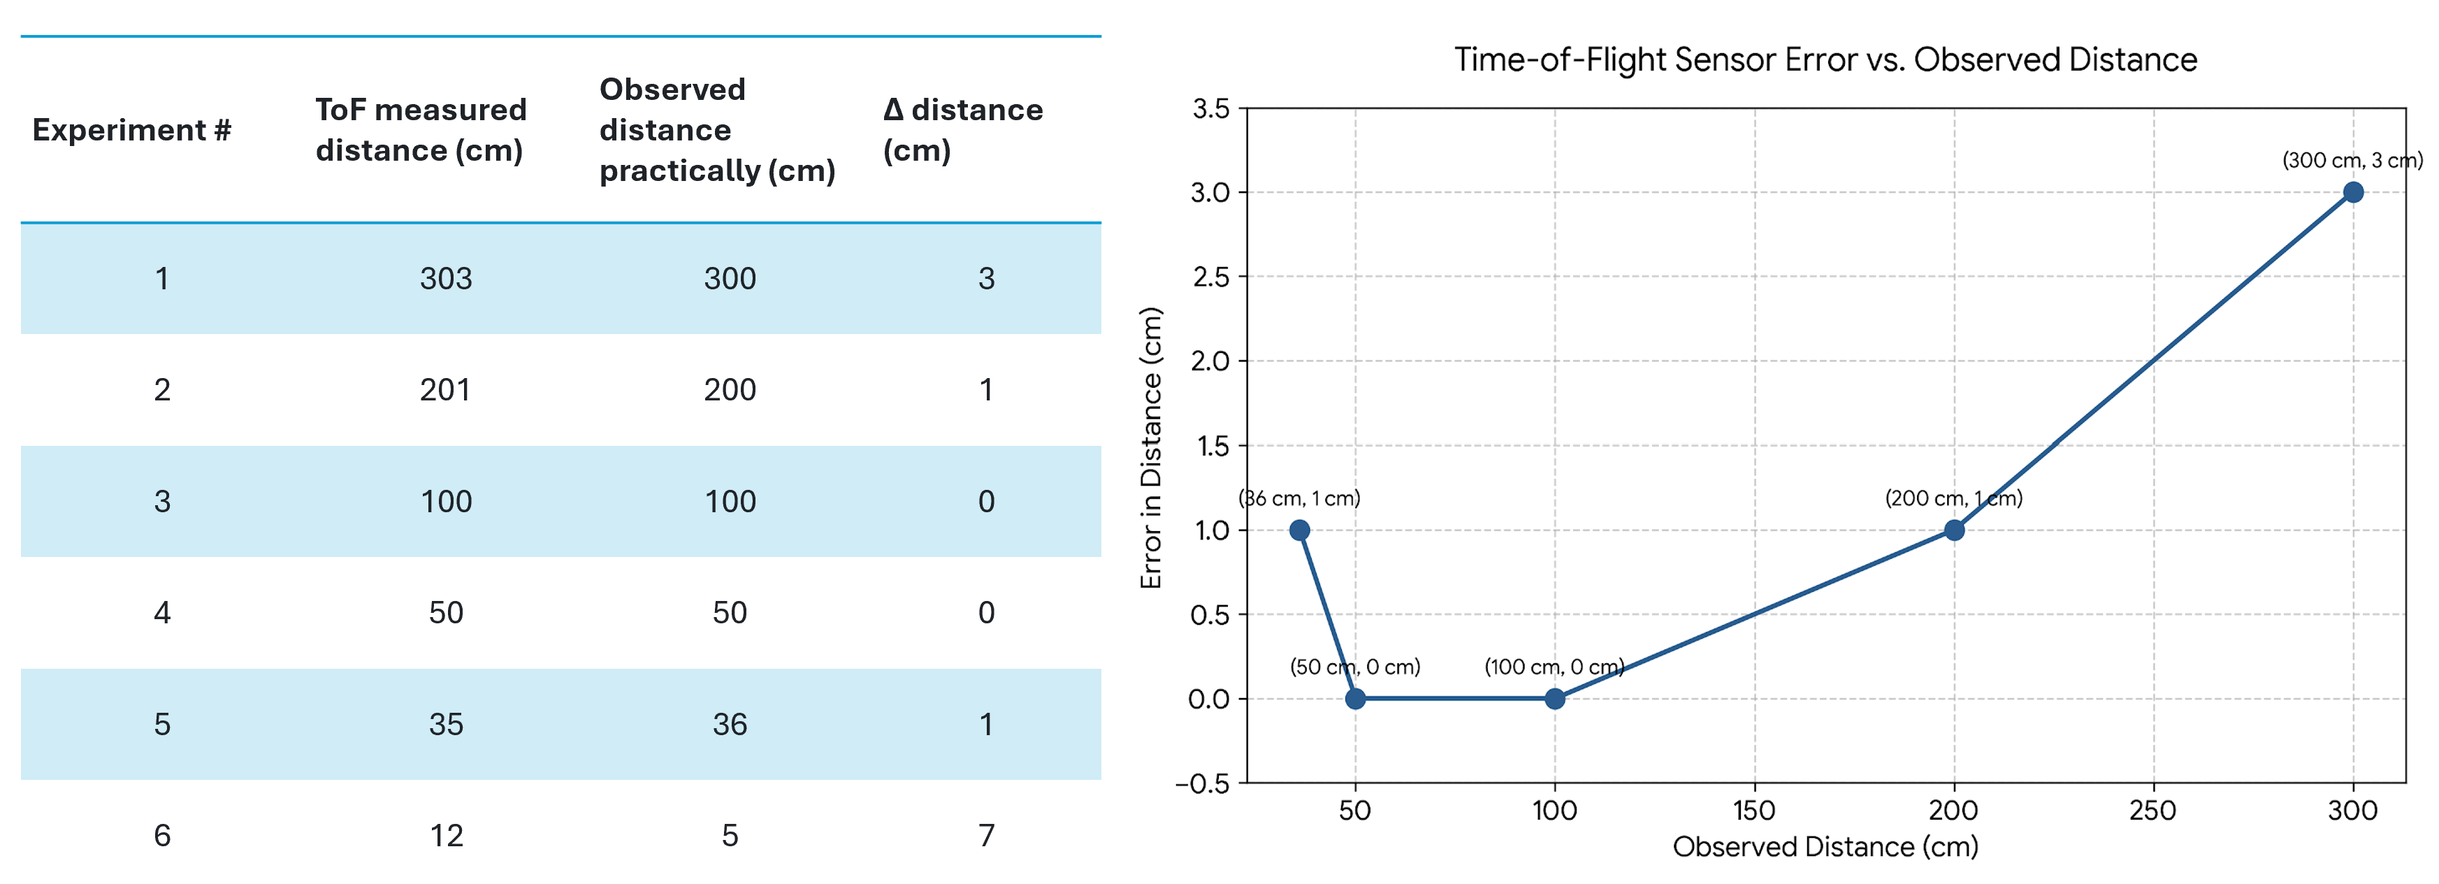
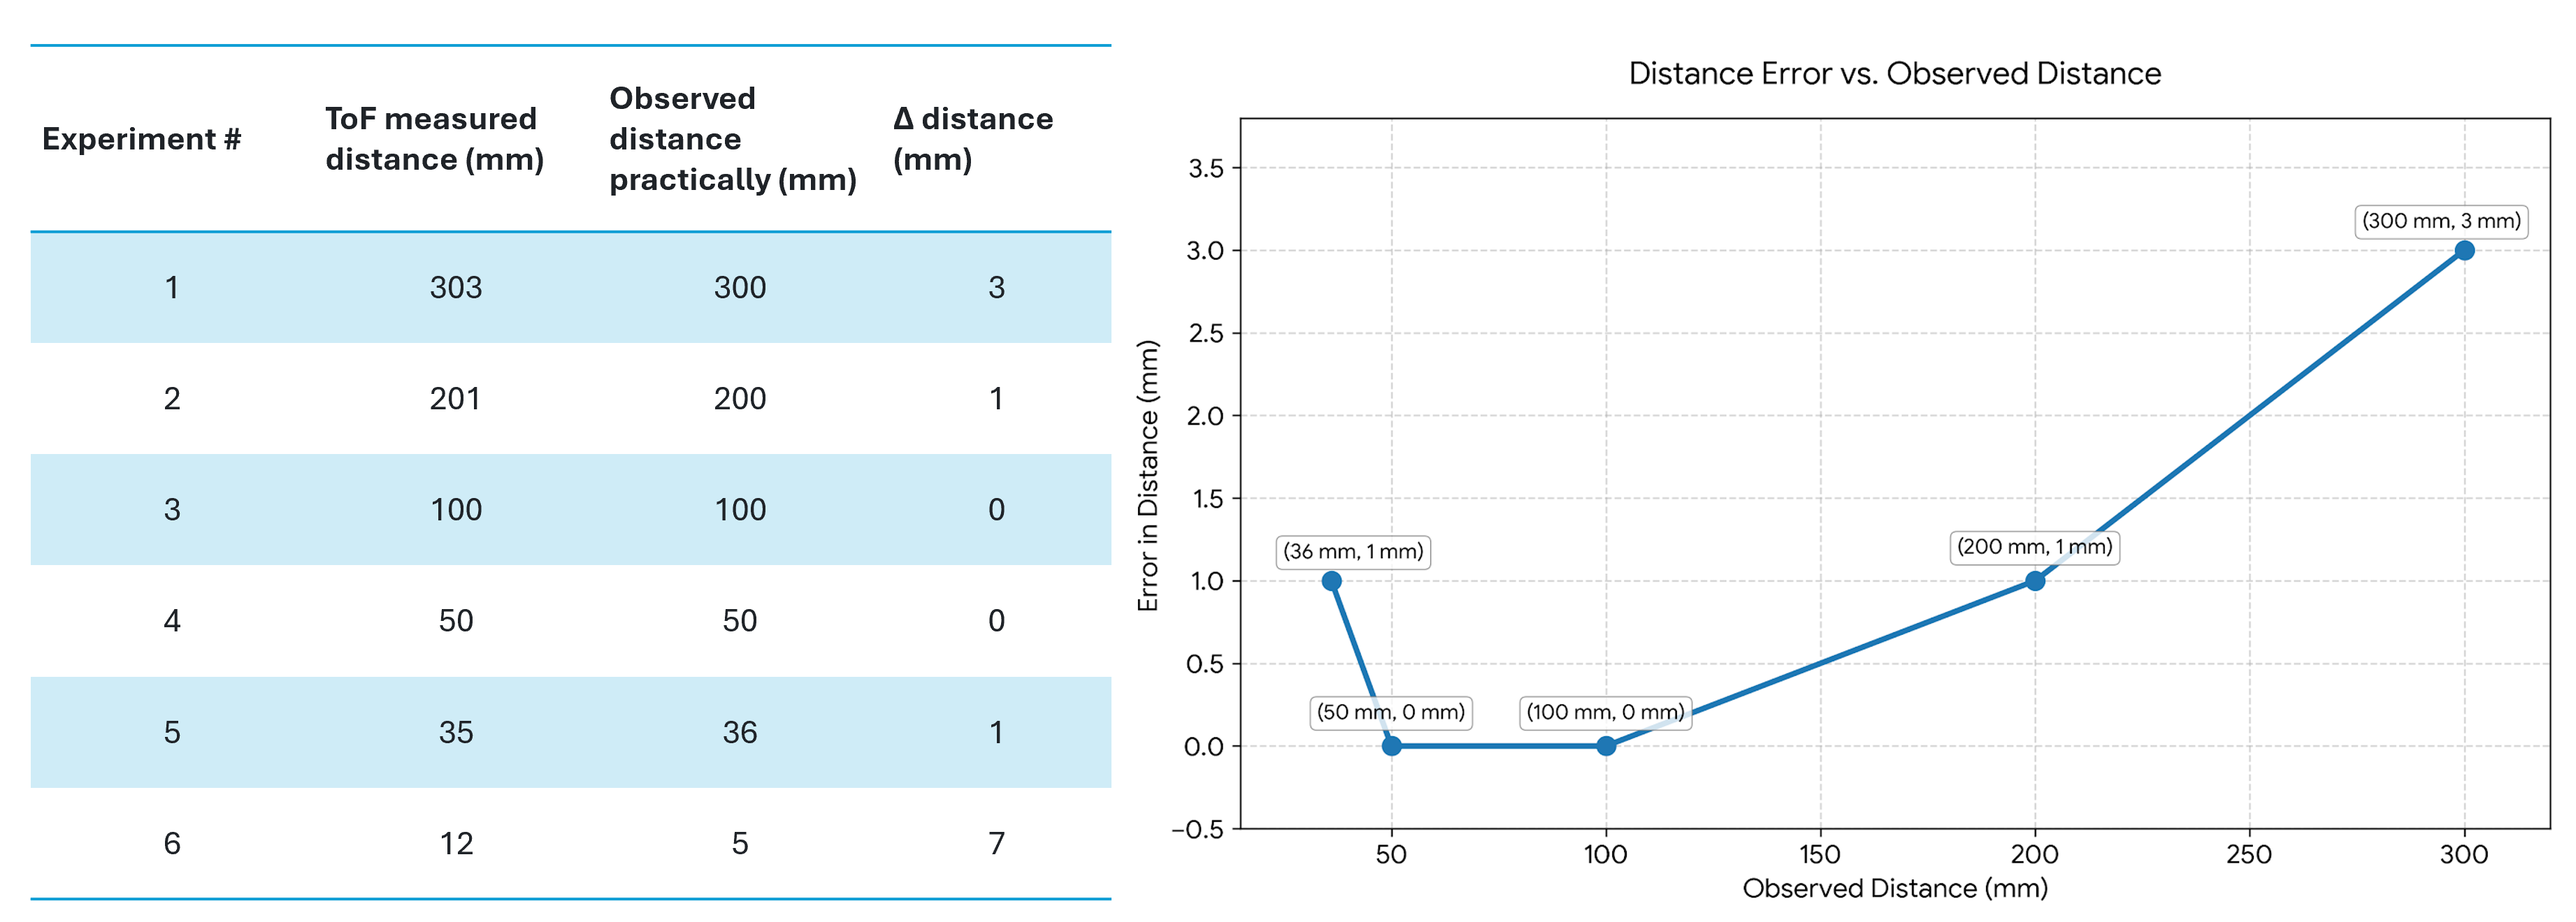
Fixing minor issues from team doc reviews

diff --git a/video/video.md b/video/video.md
@@ -1,6 +1,10 @@
-1) Hardware Intro - https://www.youtube.com/watch?v=FEl8HhxixXw&list=PLtGeYglcz-LV6koN9wQThOjIqPL0-ONzv&index=1
-2) Open Challenge - https://www.youtube.com/watch?v=RPlUBpgehC8&list=PLtGeYglcz-LV6koN9wQThOjIqPL0-ONzv&index=2
-3) Obstacle Challenge - https://www.youtube.com/watch?v=Hh7IV-Hk6og&list=PLtGeYglcz-LV6koN9wQThOjIqPL0-ONzv&index=3
+## Summary and Performance Video
+Here is a quick 5 min video that summarizes the essence of our robot and documentation. We recommend you watch it to get a quick understanding of our project!
 
 
-A single playlist of all of the above videos - https://www.youtube.com/playlist?list=PLtGeYglcz-LV6koN9wQThOjIqPL0-ONzv
+| [<img src="../docs/diagrams/SummaryVideoThumbnail.png" alt="Robot Video" width="500"/>](https://m.youtube.com/playlist?list=PLMdippUF4xxo) | <img src="../docs/diagrams/YoutubeQR.png" alt="YoutubeQR" width="100" /> <br />Scan QR code to open in YouTube |
+| ------------------------------------------------------------ | ------------------------------------------------------------ |
+
+* [Summary Video](https://youtu.be/YS-oyNQQUGs) 
+* [Open Challenge Performance Video](https://youtu.be/OW5V_LRIKNU)
+* [Obstacle Challenge Performance Video](https://youtu.be/RbtGV2t9GcI)

diff --git a/video/README.md b/video/README.md
@@ -1,6 +1,10 @@
-Video
-====
+## Summary and Performance Video
+Here is a quick 5 min video that summarizes the essence of our robot and documentation. We recommend you watch it to get a quick understanding of our project!
 
-This directory contains the video.md file with a URL to the YouTube video showing the vehicle driving autonomously.
 
-[!["Video To Our Robot"](../other/readmephotos/Thumbnail.gif)](https://www.youtube.com/watch?v=yn76rDG4Hm4)
+| [<img src="../docs/diagrams/SummaryVideoThumbnail.png" alt="Robot Video" width="500"/>](https://m.youtube.com/playlist?list=PLMdippUF4xxo) | <img src="../docs/diagrams/YoutubeQR.png" alt="YoutubeQR" width="100" /> <br />Scan QR code to open in YouTube |
+| ------------------------------------------------------------ | ------------------------------------------------------------ |
+
+* [Summary Video](https://youtu.be/YS-oyNQQUGs) 
+* [Open Challenge Performance Video](https://youtu.be/OW5V_LRIKNU)
+* [Obstacle Challenge Performance Video](https://youtu.be/RbtGV2t9GcI)
